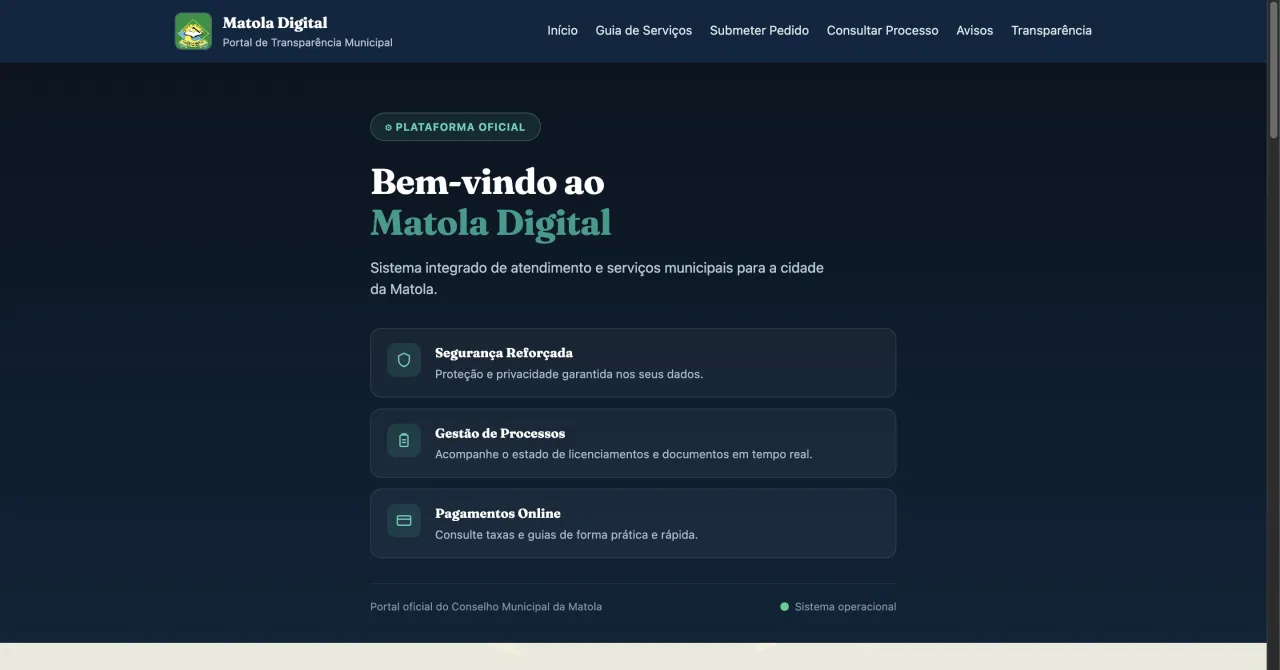
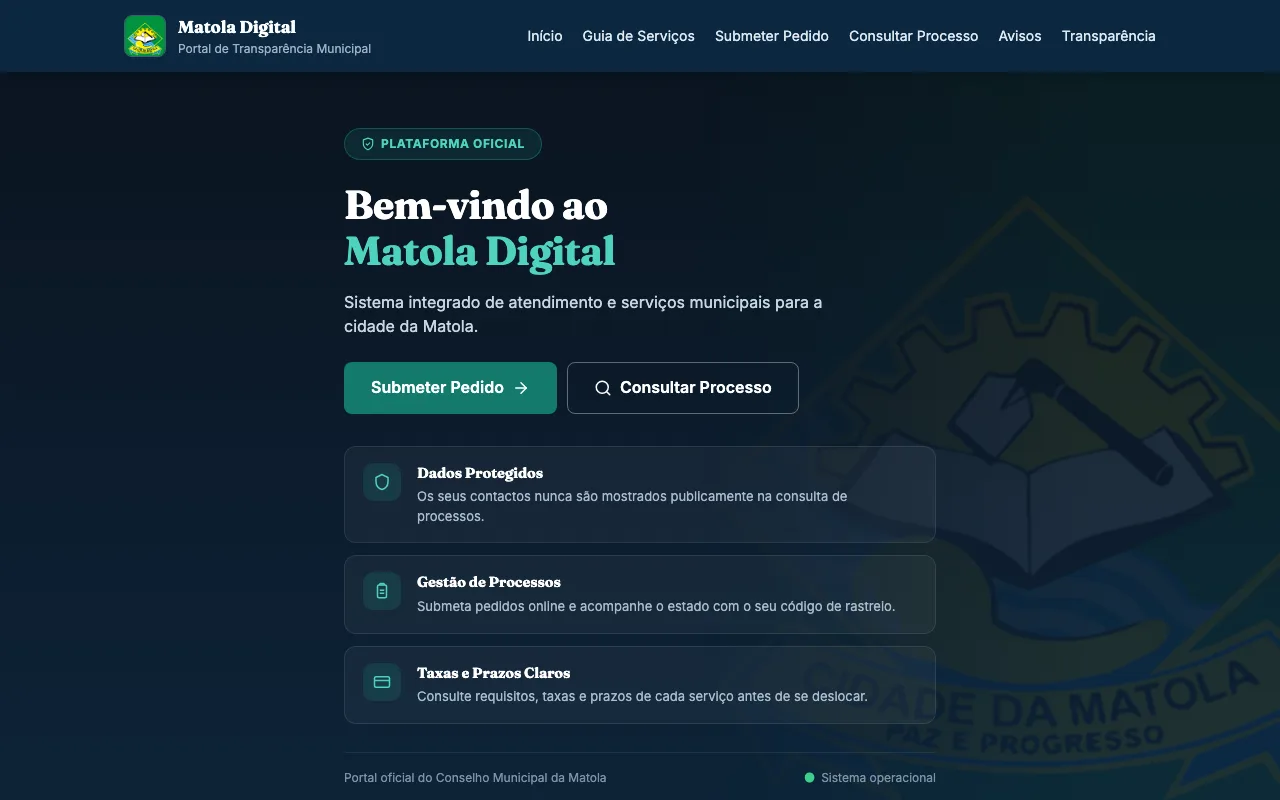
feat: Soluções Digitais MZ em destaque com estudo de caso, Linha de Fundo desce
- Troca de posições: Soluções Digitais MZ passa a destaque, Linha de Fundo vai para a grelha
- Estudo de caso do Soluções Digitais MZ (EN/PT/FR)
- Matola Digital volta a ter link para o site
- Capturas novas da página inicial do DripGOd e do Matola Digital

diff --git a/src/i18n/translations.ts b/src/i18n/translations.ts
@@ -226,21 +226,21 @@ export const translations: Record<Locale, Translation> = {
       caseStudyLabels: { problem: "Challenge", solution: "Solution", delivered: "What I delivered" },
       items: [
         {
-          id: "linhadefundo",
-          title: "Linha de Fundo",
+          id: "startuplanding",
+          title: "Soluções Digitais MZ",
           description:
-            "Content management for a Mozambican sports page on Facebook: posts, visual identity and audience growth.",
-          tags: ["Facebook", "Content management", "Visual identity"],
+            "Full corporate website for a digital agency in Mozambique, with dedicated sections for services, pricing, testimonials, FAQ and contact — built to convert visitors into clients.",
+          tags: ["Next.js", "TypeScript", "Tailwind CSS", "Resend"],
           caseStudy: {
             problem:
-              "A Mozambican sports page with a few hundred followers and no recent activity needed to win back an audience.",
+              "A digital agency in Mozambique needed a website that explains its services and prices clearly and brings in qualified requests from potential clients.",
             solution:
-              "I took over content management in September 2026, planning and publishing posts about Mozambican sport with a consistent visual identity across the artwork.",
+              "Next.js website with services, plans in meticais, testimonials, FAQ and a contact form that sends each request by email via Resend, plus a direct WhatsApp button.",
             delivered: [
-              "766,558 views in the first 16 days (18 Sep – 3 Oct 2026)",
-              "+3,699 net followers — about 90% of the page's current audience",
-              "24,607 interactions: reactions, comments and shares",
-              "Best day: 198,488 views and +564 followers on 22 September",
+              "Three plans with prices in MZN (Basic, Professional, Enterprise)",
+              "Contact form with service and budget, sent by email via Resend",
+              "WhatsApp button with a pre-filled message",
+              "Lazy-loaded sections below the fold, sitemap and SEO",
             ],
           },
         },
@@ -321,11 +321,23 @@ export const translations: Record<Locale, Translation> = {
           tags: ["React", "Tailwind CSS", "E-commerce"],
         },
         {
-          id: "startuplanding",
-          title: "Soluções Digitais MZ",
+          id: "linhadefundo",
+          title: "Linha de Fundo",
           description:
-            "Full corporate website for a digital agency in Mozambique, with dedicated sections for services, pricing, testimonials, FAQ and contact — built to convert visitors into clients.",
-          tags: ["Next.js", "React", "Tailwind CSS"],
+            "Content management for a Mozambican sports page on Facebook: posts, visual identity and audience growth.",
+          tags: ["Facebook", "Content management", "Visual identity"],
+          caseStudy: {
+            problem:
+              "A Mozambican sports page with a few hundred followers and no recent activity needed to win back an audience.",
+            solution:
+              "I took over content management in September 2026, planning and publishing posts about Mozambican sport with a consistent visual identity across the artwork.",
+            delivered: [
+              "766,558 views in the first 16 days (18 Sep – 3 Oct 2026)",
+              "+3,699 net followers — about 90% of the page's current audience",
+              "24,607 interactions: reactions, comments and shares",
+              "Best day: 198,488 views and +564 followers on 22 September",
+            ],
+          },
         },
         {
           id: "picasso",
@@ -505,21 +517,21 @@ export const translations: Record<Locale, Translation> = {
       caseStudyLabels: { problem: "Desafio", solution: "Solução", delivered: "O que entreguei" },
       items: [
         {
-          id: "linhadefundo",
-          title: "Linha de Fundo",
+          id: "startuplanding",
+          title: "Soluções Digitais MZ",
           description:
-            "Gestão de conteúdos de uma página moçambicana de desporto no Facebook: publicações, identidade visual e crescimento da audiência.",
-          tags: ["Facebook", "Gestão de conteúdos", "Identidade visual"],
+            "Website institucional completo para uma agência digital moçambicana, com secções de serviços, preços, depoimentos, FAQ e contacto — pensado para converter visitantes em clientes.",
+          tags: ["Next.js", "TypeScript", "Tailwind CSS", "Resend"],
           caseStudy: {
             problem:
-              "Uma página moçambicana de desporto, com poucas centenas de seguidores e sem atividade recente, precisava de reconquistar audiência.",
+              "Uma agência digital em Moçambique precisava de um site que explicasse com clareza os serviços e os preços e trouxesse pedidos qualificados de potenciais clientes.",
             solution:
-              "Assumi a gestão de conteúdos em setembro de 2026, com planeamento e publicação de conteúdos sobre o desporto moçambicano e uma identidade visual consistente nas artes.",
+              "Site em Next.js com serviços, planos em meticais, depoimentos, perguntas frequentes e formulário de contacto que envia cada pedido por email através do Resend, além de um botão direto para o WhatsApp.",
             delivered: [
-              "766 558 visualizações nos primeiros 16 dias (18 set – 3 out 2026)",
-              "+3 699 seguidores líquidos — cerca de 90% da audiência atual da página",
-              "24 607 interações: reações, comentários e partilhas",
-              "Melhor dia: 198 488 visualizações e +564 seguidores a 22 de setembro",
+              "Três planos com preços em MZN (Básico, Profissional, Empresarial)",
+              "Formulário com serviço e orçamento, enviado por email via Resend",
+              "Botão de WhatsApp com mensagem pré-preenchida",
+              "Secções abaixo da dobra carregadas sob demanda, sitemap e SEO",
             ],
           },
         },
@@ -600,11 +612,23 @@ export const translations: Record<Locale, Translation> = {
           tags: ["React", "Tailwind CSS", "E-commerce"],
         },
         {
-          id: "startuplanding",
-          title: "Soluções Digitais MZ",
+          id: "linhadefundo",
+          title: "Linha de Fundo",
           description:
-            "Website institucional completo para uma agência digital moçambicana, com secções de serviços, preços, depoimentos, FAQ e contacto — pensado para converter visitantes em clientes.",
-          tags: ["Next.js", "React", "Tailwind CSS"],
+            "Gestão de conteúdos de uma página moçambicana de desporto no Facebook: publicações, identidade visual e crescimento da audiência.",
+          tags: ["Facebook", "Gestão de conteúdos", "Identidade visual"],
+          caseStudy: {
+            problem:
+              "Uma página moçambicana de desporto, com poucas centenas de seguidores e sem atividade recente, precisava de reconquistar audiência.",
+            solution:
+              "Assumi a gestão de conteúdos em setembro de 2026, com planeamento e publicação de conteúdos sobre o desporto moçambicano e uma identidade visual consistente nas artes.",
+            delivered: [
+              "766 558 visualizações nos primeiros 16 dias (18 set – 3 out 2026)",
+              "+3 699 seguidores líquidos — cerca de 90% da audiência atual da página",
+              "24 607 interações: reações, comentários e partilhas",
+              "Melhor dia: 198 488 visualizações e +564 seguidores a 22 de setembro",
+            ],
+          },
         },
         {
           id: "picasso",
@@ -783,21 +807,21 @@ export const translations: Record<Locale, Translation> = {
       caseStudyLabels: { problem: "Défi", solution: "Solution", delivered: "Ce que j'ai livré" },
       items: [
         {
-          id: "linhadefundo",
-          title: "Linha de Fundo",
+          id: "startuplanding",
+          title: "Soluções Digitais MZ",
           description:
-            "Gestion du contenu d'une page sportive mozambicaine sur Facebook : publications, identité visuelle et croissance de l'audience.",
-          tags: ["Facebook", "Gestion de contenu", "Identité visuelle"],
+            "Site institutionnel complet pour une agence digitale mozambicaine, avec des sections dediees aux services, tarifs, temoignages, FAQ et contact — concu pour convertir les visiteurs en clients.",
+          tags: ["Next.js", "TypeScript", "Tailwind CSS", "Resend"],
           caseStudy: {
             problem:
-              "Une page sportive mozambicaine, avec quelques centaines d'abonnés et sans activité récente, devait reconquérir son audience.",
+              "Une agence digitale au Mozambique avait besoin d'un site présentant clairement ses services et ses tarifs, capable d'attirer des demandes qualifiées de clients potentiels.",
             solution:
-              "J'ai repris la gestion du contenu en septembre 2026 : planification et publication de contenus sur le sport mozambicain, avec une identité visuelle cohérente dans les visuels.",
+              "Site Next.js avec les services, des offres en meticais, des témoignages, une FAQ et un formulaire de contact qui envoie chaque demande par e-mail via Resend, ainsi qu'un bouton WhatsApp direct.",
             delivered: [
-              "766 558 vues sur les 16 premiers jours (18 sept. – 3 oct. 2026)",
-              "+3 699 abonnés nets — environ 90 % de l'audience actuelle de la page",
-              "24 607 interactions : réactions, commentaires et partages",
-              "Meilleure journée : 198 488 vues et +564 abonnés le 22 septembre",
+              "Trois offres avec prix en MZN (Basique, Professionnel, Entreprise)",
+              "Formulaire avec service et budget, envoyé par e-mail via Resend",
+              "Bouton WhatsApp avec message pré-rempli",
+              "Sections sous la ligne de flottaison chargées à la demande, sitemap et SEO",
             ],
           },
         },
@@ -878,11 +902,23 @@ export const translations: Record<Locale, Translation> = {
           tags: ["React", "Tailwind CSS", "E-commerce"],
         },
         {
-          id: "startuplanding",
-          title: "Soluções Digitais MZ",
+          id: "linhadefundo",
+          title: "Linha de Fundo",
           description:
-            "Site institutionnel complet pour une agence digitale mozambicaine, avec des sections dediees aux services, tarifs, temoignages, FAQ et contact — concu pour convertir les visiteurs en clients.",
-          tags: ["Next.js", "React", "Tailwind CSS"],
+            "Gestion du contenu d'une page sportive mozambicaine sur Facebook : publications, identité visuelle et croissance de l'audience.",
+          tags: ["Facebook", "Gestion de contenu", "Identité visuelle"],
+          caseStudy: {
+            problem:
+              "Une page sportive mozambicaine, avec quelques centaines d'abonnés et sans activité récente, devait reconquérir son audience.",
+            solution:
+              "J'ai repris la gestion du contenu en septembre 2026 : planification et publication de contenus sur le sport mozambicain, avec une identité visuelle cohérente dans les visuels.",
+            delivered: [
+              "766 558 vues sur les 16 premiers jours (18 sept. – 3 oct. 2026)",
+              "+3 699 abonnés nets — environ 90 % de l'audience actuelle de la page",
+              "24 607 interactions : réactions, commentaires et partages",
+              "Meilleure journée : 198 488 vues et +564 abonnés le 22 septembre",
+            ],
+          },
         },
         {
           id: "picasso",

diff --git a/src/data/portfolio.ts b/src/data/portfolio.ts
@@ -98,7 +98,7 @@ export const staticPortfolio = {
       category: "web",
       featured: true,
       site: "https://dripgod.vercel.app/",
-      image: publicAsset("dripgod.png"),
+      image: publicAsset("dripgod.webp"),
       livePreview: true,
     },
     {
@@ -106,7 +106,8 @@ export const staticPortfolio = {
       icon: "landmark",
       category: "web",
       featured: true,
-      // O site (matola-digital.vercel.app) está em 404 — volta a pôr `site` e `livePreview` quando for republicado.
+      // Sem livePreview: o site envia X-Frame-Options: DENY e não pode ser incorporado.
+      site: "https://matola-digital.vercel.app/",
       repo: "https://github.com/dev-zilton/matola-digital",
       image: publicAsset("matola-digital.webp"),
     },
@@ -114,7 +115,6 @@ export const staticPortfolio = {
       id: "linhadefundo",
       icon: "trophy",
       category: "social",
-      featured: true,
       site: "https://www.facebook.com/profile.php?id=100064196370490",
       image: publicAsset("linha-de-fundo.webp"),
     },
@@ -139,6 +139,7 @@ export const staticPortfolio = {
       id: "startuplanding",
       icon: "rocket",
       category: "web",
+      featured: true,
       site: "https://startup-website-build.vercel.app/",
       repo: "https://github.com/dev-zilton/startup-website-build",
       image: publicAsset("startuplanding.png"),
